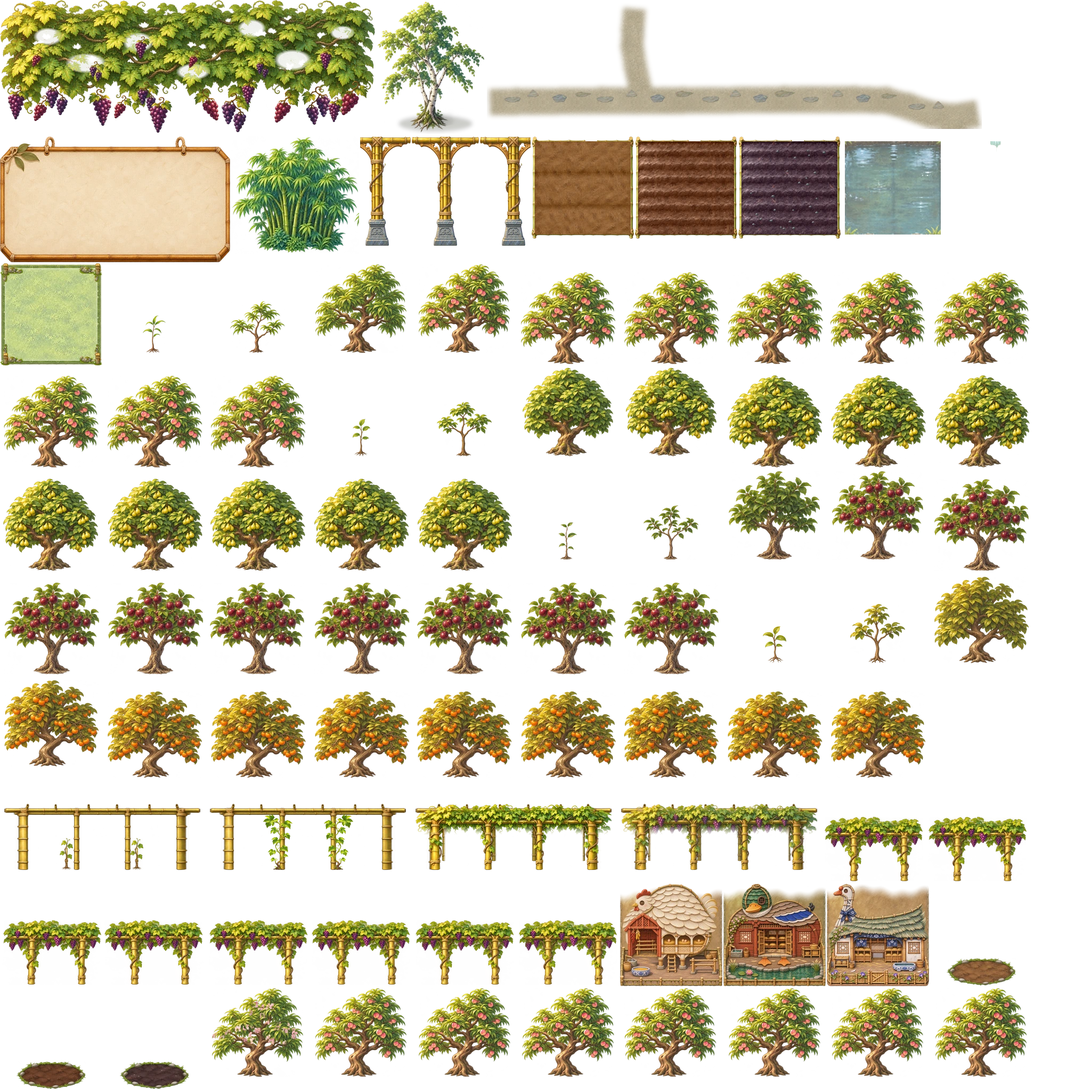
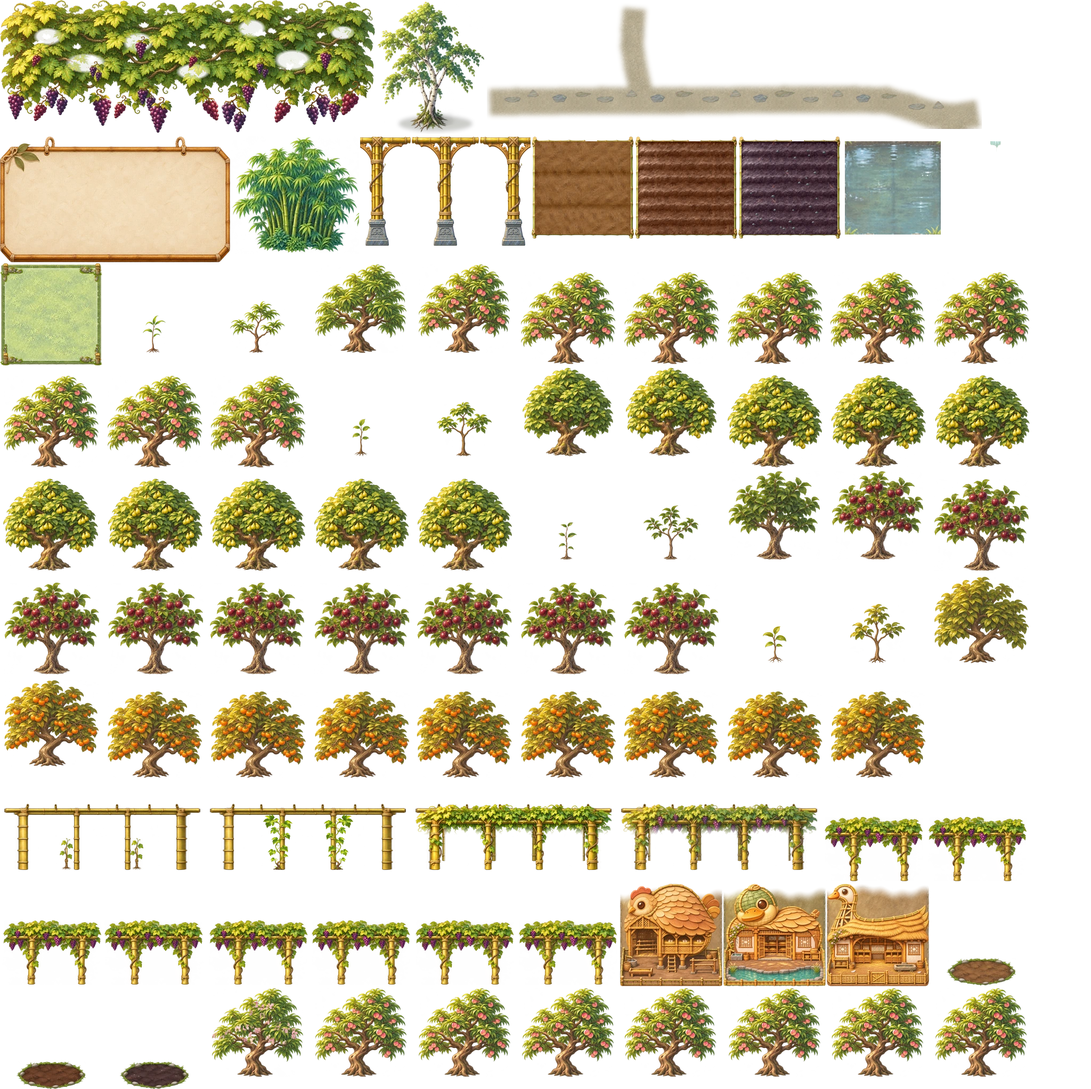
v582: 青竹菜园 — poultry houses back to the rounded 抱窝/浮水 revision while the recolour is redone
Claude-Session: https://claude.ai/code/session_019SDBmEJjm6T1E7HUN4NVpX

Changed region(s): [[0.5625, 0.8018, 0.875, 0.9251]]

diff --git a/game/r175g2_farm.js b/game/r175g2_farm.js
@@ -16,7 +16,7 @@
 
   // ---------- 图 ----------
   const IM = {}; let want = 0, got = 0;
-  const SRC = k => (window.R162_ASSETS && R162_ASSETS[DIR + k + '.webp']) || (DIR + k + '.webp?v=m7');
+  const SRC = k => (window.R162_ASSETS && R162_ASSETS[DIR + k + '.webp']) || (DIR + k + '.webp?v=m8');
   const ld = k => { if (k in IM) return; IM[k] = null; want++; const i = new Image(); i.onload = () => { IM[k] = i; got++; }; i.onerror = () => { got++; }; i.src = SRC(k); };
   const loadAll = () => { for (let i = 0; i < MM.pages; i++) ld('m_' + i); ld('lf'); ld('seam'); };
   { const o = window.MAP_EXTRA_READY; window.MAP_EXTRA_READY = n => { let a = 1; try { a = o ? o(n) : 1; } catch (e) {} if (a == null) a = 1; if (n !== ID) return a; loadAll(); return Math.min(a, want ? got / want : 0); }; }
